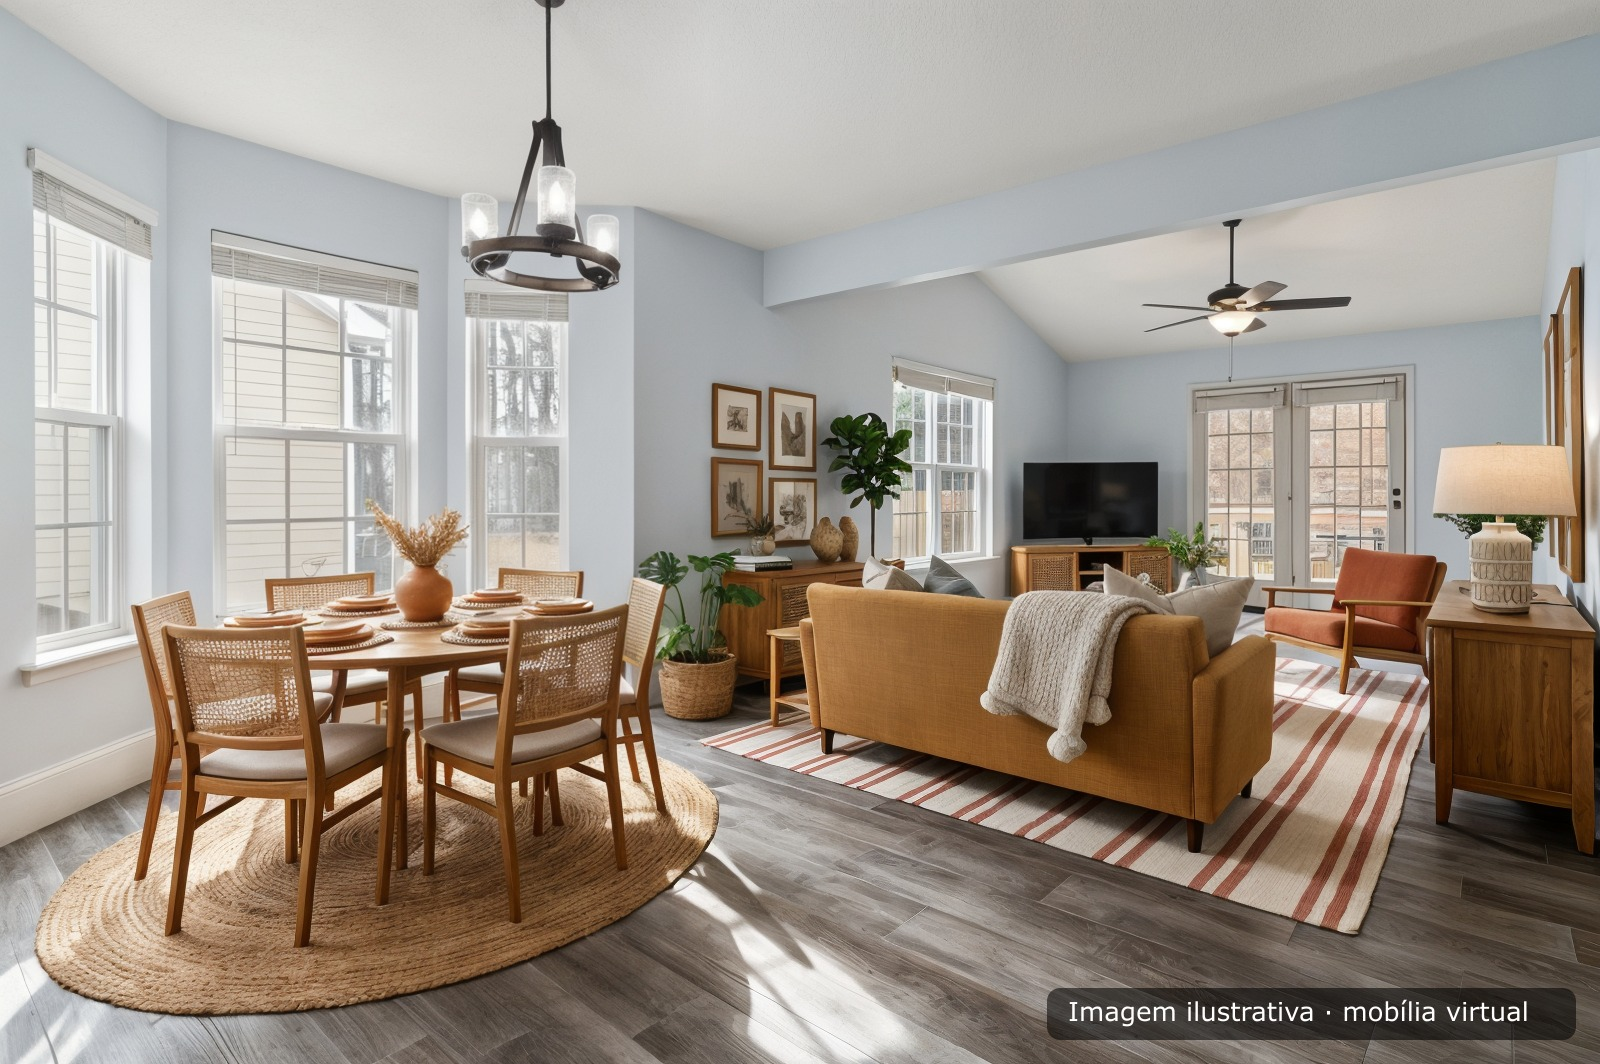
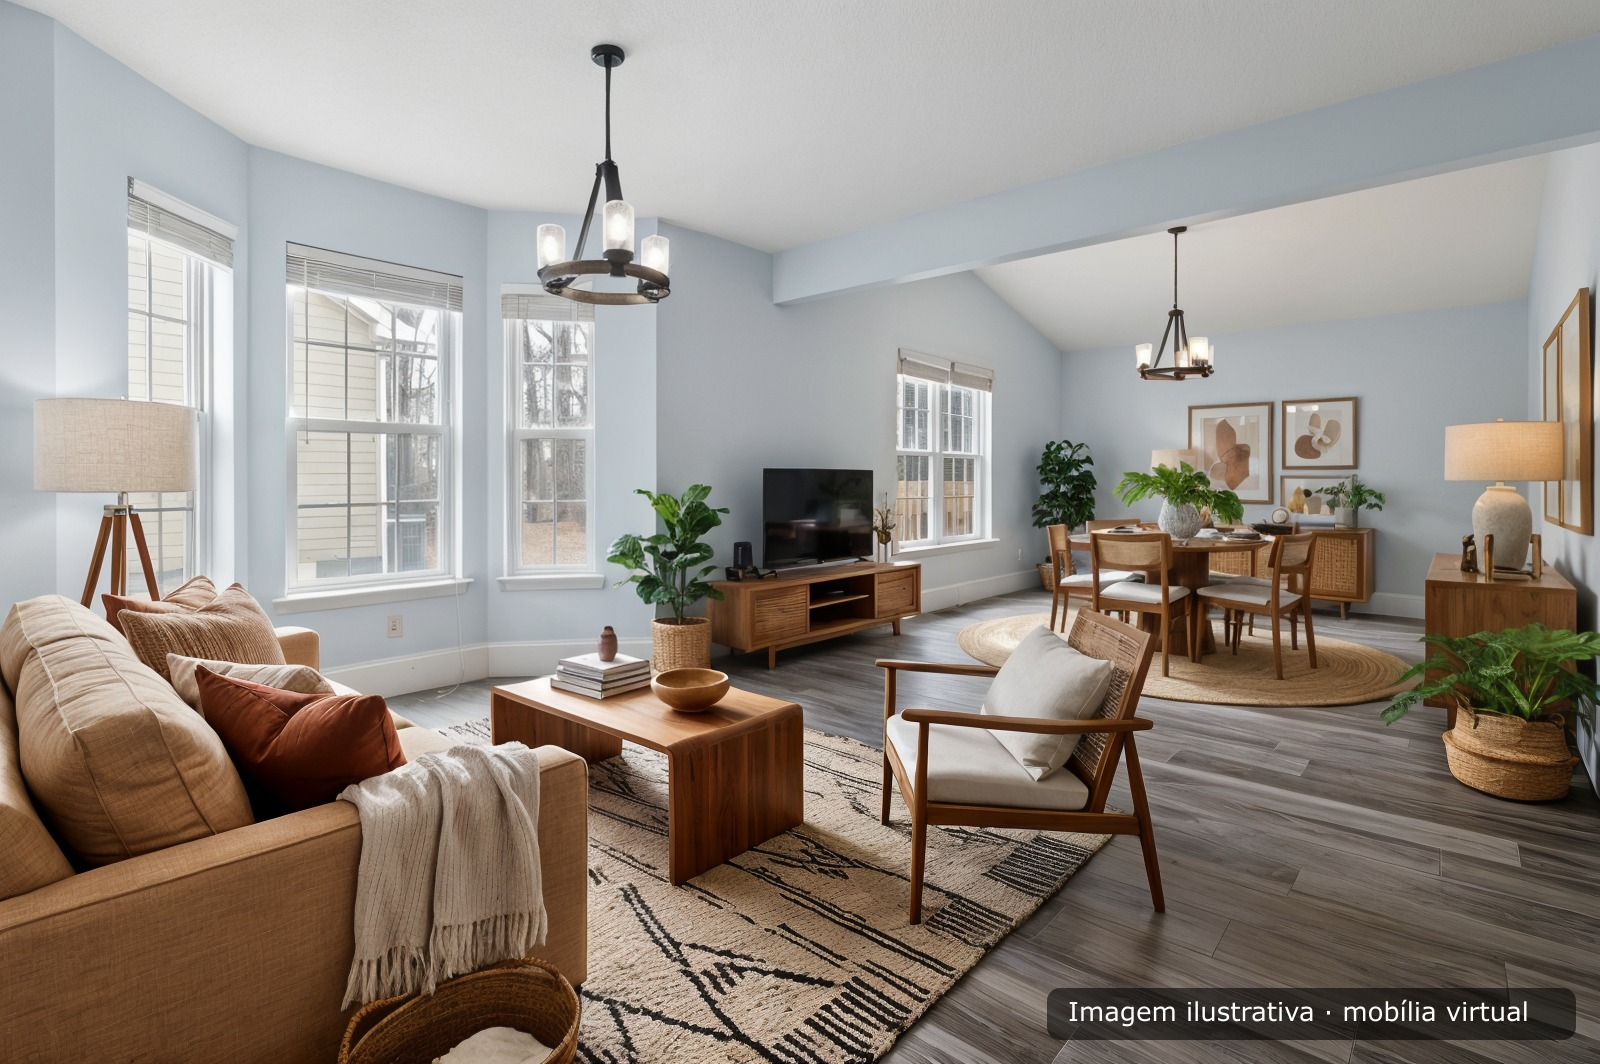
Selo: a copia que volta pra IA cobre so a caixa, com desfoque -- o rodape espelhado sumiu
limparFaixaDoSelo cobria a largura inteira do rodape com o espelho do trecho acima; o modelo preserva o que nao foi pedido pra mudar e devolvia a faixa espelhada na imagem final (piso em espinha virando chevron, visivel no refino e na obra). Agora: geometriaDoSelo() compartilhada entre carimbar e cobrir, o texto do selo vai junto (do job de origem no refinar; da etapa anterior na obra) e o retangulo coberto e' a caixa mais uma folga fina, preenchido com desfoque do trecho logo acima. O selo novo cai exatamente em cima do remendo. Sem texto, cai na faixa inteira como antes.

testar-selo.mjs reescrito: estava quebrado (importava SELOS, que nao existe mais). Agora carimba todo texto do catalogo numa foto real e cobre a caixa em tres resultados reais ja carimbados, medindo: caixa sumiu, texto sumiu, resto intocado, remendo e' desfoque e nao copia. Rodapes antes/depois em docs/testes-reais/selo. Teste de ponta a ponta com IA real (testar-refinar) refeito: 2 creditos, rodape limpo.

diff --git a/web/src/lib/selo.ts b/web/src/lib/selo.ts
@@ -41,6 +41,52 @@ function escaparXml(texto: string): string {
     .replace(/"/g, "&quot;");
 }
 
+type Geometria = {
+  margem: number;
+  fonte: number;
+  padX: number;
+  padY: number;
+  larguraCaixa: number;
+  alturaCaixa: number;
+  /** Canto superior esquerdo da caixa dentro da imagem. */
+  top: number;
+  left: number;
+};
+
+/**
+ * Onde a caixa do selo cai e que tamanho tem, dado o tamanho da imagem e o texto.
+ *
+ * É uma função separada porque DOIS lugares precisam da mesma resposta: quem carimba e
+ * quem, mais tarde, precisa saber exatamente que retângulo cobrir antes de mandar a
+ * imagem de volta pra IA. Se os dois calculassem por conta própria, uma mudança no
+ * tamanho da fonte aqui deixaria um pedaço de selo pra trás lá.
+ */
+export function geometriaDoSelo(largura: number, altura: number, texto: string): Geometria {
+  // Tamanho da fonte proporcional à imagem, com dois limites: nunca tão pequeno que
+  // fique ilegível numa thumb, nunca tão largo que a caixa não caiba na foto.
+  const margem = Math.max(8, Math.round(largura * 0.015));
+  const larguraDisponivel = largura - margem * 2;
+  const fonteProporcional = Math.round(largura * 0.016);
+  const fonteQueCabe = Math.floor(larguraDisponivel / (texto.length * 0.52 + 1.6));
+  const fonte = Math.max(10, Math.min(fonteProporcional, fonteQueCabe));
+
+  const padX = Math.round(fonte * 0.8);
+  const padY = Math.round(fonte * 0.5);
+  const larguraCaixa = Math.min(Math.round(texto.length * fonte * 0.52) + padX * 2, larguraDisponivel);
+  const alturaCaixa = fonte + padY * 2;
+
+  return {
+    margem,
+    fonte,
+    padX,
+    padY,
+    larguraCaixa,
+    alturaCaixa,
+    top: Math.max(0, altura - alturaCaixa - margem),
+    left: Math.max(0, largura - larguraCaixa - margem),
+  };
+}
+
 /**
  * Carimba o selo no canto inferior direito e devolve o JPEG final.
  *
@@ -59,80 +105,106 @@ export async function aplicarSelo(bytes: Buffer, texto: string | null): Promise<
   const altura = meta.height ?? 0;
   if (!largura || !altura) return bytes;
 
-  // Tamanho da fonte proporcional à imagem, com dois limites: nunca tão pequeno que
-  // fique ilegível numa thumb, nunca tão largo que a caixa não caiba na foto.
-  const margem = Math.max(8, Math.round(largura * 0.015));
-  const larguraDisponivel = largura - margem * 2;
-  const fonteProporcional = Math.round(largura * 0.016);
-  const fonteQueCabe = Math.floor(larguraDisponivel / (texto.length * 0.52 + 1.6));
-  const fonte = Math.max(10, Math.min(fonteProporcional, fonteQueCabe));
-
-  const padX = Math.round(fonte * 0.8);
-  const padY = Math.round(fonte * 0.5);
-  const larguraCaixa = Math.min(
-    Math.round(texto.length * fonte * 0.52) + padX * 2,
-    larguraDisponivel
-  );
-  const alturaCaixa = fonte + padY * 2;
+  const g = geometriaDoSelo(largura, altura, texto);
 
   const svg = Buffer.from(
-    `<svg width="${larguraCaixa}" height="${alturaCaixa}" xmlns="http://www.w3.org/2000/svg">` +
-      `<rect x="0" y="0" width="${larguraCaixa}" height="${alturaCaixa}" rx="${Math.round(
-        alturaCaixa * 0.25
+    `<svg width="${g.larguraCaixa}" height="${g.alturaCaixa}" xmlns="http://www.w3.org/2000/svg">` +
+      `<rect x="0" y="0" width="${g.larguraCaixa}" height="${g.alturaCaixa}" rx="${Math.round(
+        g.alturaCaixa * 0.25
       )}" fill="#000000" fill-opacity="0.55"/>` +
-      `<text x="${padX}" y="${Math.round(padY + fonte * 0.78)}" ` +
+      `<text x="${g.padX}" y="${Math.round(g.padY + g.fonte * 0.78)}" ` +
       `font-family="DejaVu Sans, Verdana, Arial, Helvetica, sans-serif" ` +
-      `font-size="${fonte}" fill="#ffffff">${escaparXml(texto)}</text>` +
+      `font-size="${g.fonte}" fill="#ffffff">${escaparXml(texto)}</text>` +
       `</svg>`
   );
 
   return sharp(bytes)
-    .composite([
-      {
-        input: svg,
-        top: Math.max(0, altura - alturaCaixa - margem),
-        left: Math.max(0, largura - larguraCaixa - margem),
-      },
-    ])
+    .composite([{ input: svg, top: g.top, left: g.left }])
     .jpeg({ quality: 92 })
     .toBuffer();
 }
 
+type Retangulo = { left: number; top: number; width: number; height: number };
+
 /**
- * Cobre a faixa onde o selo mora, pra a imagem poder voltar pra IA sem o aviso junto.
+ * Cobre a caixa do selo, pra a imagem poder voltar pra IA sem o aviso junto.
  *
  * Existe por causa da obra no terreno, que é encadeada: a etapa seguinte recebe a imagem
  * da anterior, e a anterior já saiu carimbada. O modelo então REDESENHAVA o "Imagem
  * ilustrativa" e o app carimbava outro por cima -- dois avisos sobrepostos. Pedir no
  * prompt pra não copiar funcionou em metade das rodadas, que é o mesmo que não funcionar.
+ * O refinar tem o mesmo problema pelo mesmo motivo: a entrada dele é um resultado.
  *
  * Não é "tirar o selo": nada é guardado assim. Isto roda sobre a cópia que vai como
  * ENTRADA da próxima etapa, e a saída dela é carimbada de novo, como toda imagem de IA.
  * A única cópia que existe no storage continua tendo o aviso queimado no pixel.
  *
- * A faixa é preenchida com o espelho dos pixels logo acima dela: o modelo recebe
- * continuação plausível da foto em vez de uma tarja, que ele copiaria igual.
+ * Duas decisões que o teste real obrigou:
+ *
+ * 1. Cobrir SÓ a caixa, não a faixa inteira do rodapé. A primeira versão cobria a
+ *    largura toda, e o modelo -- que preserva o que não foi pedido pra mudar -- devolvia
+ *    o rodapé inteiro com a cobertura, visível na imagem final. Com `texto`, a caixa é
+ *    calculada pela MESMA função que carimbou, e o que se cobre é ela e uma folga fina.
+ *    O selo novo cai exatamente em cima desse retângulo, escondendo o remendo.
+ *
+ * 2. Preencher com DESFOQUE do trecho logo acima, não com o espelho dele. O espelho
+ *    tinha a intenção certa (continuação plausível da foto, que o modelo não copia como
+ *    tarja) mas deixava uma simetria que se enxerga -- piso em espinha virando chevron.
+ *    Um borrão da mesma cor e luz é anônimo: o modelo o lê como foreground fora de foco.
+ *
+ * Sem `texto` (quem chama não sabe o que foi carimbado) cai na faixa inteira, como
+ * antes -- pior, mas ainda remove o aviso, que é o que não pode entrar no modelo.
  */
-export async function limparFaixaDoSelo(bytes: Buffer): Promise<Buffer> {
+export async function limparFaixaDoSelo(bytes: Buffer, texto?: string | null): Promise<Buffer> {
   const meta = await sharp(bytes).metadata();
   const largura = meta.width ?? 0;
   const altura = meta.height ?? 0;
   if (!largura || !altura) return bytes;
 
-  // Mesma geometria de `aplicarSelo`, com folga: o tamanho da caixa depende do texto, e
-  // aqui não se sabe qual era. Errar pra mais custa uma tira de céu ou de asfalto.
-  const margem = Math.max(8, Math.round(largura * 0.015));
-  const alturaCaixa = Math.round(largura * 0.016) * 2;
-  const faixa = Math.min(altura - 1, Math.round((alturaCaixa + margem * 2) * 1.4));
-  if (faixa < 4) return bytes;
+  let alvo: Retangulo;
+  if (texto) {
+    const g = geometriaDoSelo(largura, altura, texto);
+    // A folga cobre o anti-aliasing da borda arredondada e o sangramento do JPEG.
+    const folga = Math.max(2, Math.round(g.margem * 0.4));
+    const left = Math.max(0, g.left - folga);
+    const top = Math.max(0, g.top - folga);
+    alvo = {
+      left,
+      top,
+      width: Math.min(largura - left, g.larguraCaixa + folga * 2),
+      height: Math.min(altura - top, g.alturaCaixa + folga * 2),
+    };
+  } else {
+    const margem = Math.max(8, Math.round(largura * 0.015));
+    const alturaCaixa = Math.round(largura * 0.016) * 2;
+    const faixa = Math.min(altura - 1, Math.round((alturaCaixa + margem * 2) * 1.4));
+    alvo = { left: 0, top: altura - faixa, width: largura, height: faixa };
+  }
+  if (alvo.width < 4 || alvo.height < 4) return bytes;
 
-  const espelho = await sharp(bytes)
-    .extract({ left: 0, top: altura - faixa * 2, width: largura, height: faixa })
-    .flip()
+  // A fonte do remendo é o mesmo retângulo, deslocado pra cima até sair de cima da caixa.
+  // Numa imagem baixa demais pra isso, sobe o que der.
+  const fonteTop = Math.max(0, alvo.top - alvo.height);
+
+  // Desfoca com sobra em volta e recorta depois: desfocar o recorte exato deixaria as
+  // bordas do remendo escurecidas/estendidas pelo próprio filtro.
+  const sigma = Math.max(2, Math.round(alvo.height / 3));
+  const sobra = sigma * 2;
+  const areaLeft = Math.max(0, alvo.left - sobra);
+  const areaTop = Math.max(0, fonteTop - sobra);
+  const areaRight = Math.min(largura, alvo.left + alvo.width + sobra);
+  const areaBottom = Math.min(altura, fonteTop + alvo.height + sobra);
+
+  const desfocado = await sharp(bytes)
+    .extract({ left: areaLeft, top: areaTop, width: areaRight - areaLeft, height: areaBottom - areaTop })
+    .blur(sigma)
+    .toBuffer();
+  const remendo = await sharp(desfocado)
+    .extract({ left: alvo.left - areaLeft, top: fonteTop - areaTop, width: alvo.width, height: alvo.height })
     .toBuffer();
 
   return sharp(bytes)
-    .composite([{ input: espelho, top: altura - faixa, left: 0 }])
+    .composite([{ input: remendo, top: alvo.top, left: alvo.left }])
     .jpeg({ quality: 92 })
     .toBuffer();
 }

diff --git a/web/src/app/api/gerar/route.ts b/web/src/app/api/gerar/route.ts
@@ -2,7 +2,7 @@ import { NextRequest, NextResponse } from "next/server";
 import sharp from "sharp";
 import { supabaseServer, BUCKET_RESULTADOS } from "@/lib/supabase-server";
 import { apagarEntradas, caminhoEntrada, caminhoOriginal, guardarEAssinar } from "@/lib/armazenamento";
-import { limparFaixaDoSelo } from "@/lib/selo";
+import { limparFaixaDoSelo, textoDoSelo } from "@/lib/selo";
 import { UPSCALER, corpoRequisicao, despachar } from "@/lib/fal";
 import { ACOES_POR_ID, limparParametros } from "@/lib/acoes";
 import { saldoFal } from "@/lib/custo";
@@ -111,7 +111,7 @@ export async function POST(req: NextRequest) {
   if (baseJobId) {
     const { data: base } = await db
       .from("jobs")
-      .select("id, status, output_path, property_id")
+      .select("id, status, output_path, property_id, tipo, selo")
       .eq("id", baseJobId)
       .eq("user_id", userId)
       .maybeSingle();
@@ -123,7 +123,11 @@ export async function POST(req: NextRequest) {
     // A imagem guardada tem o selo queimado. Se ele entrar no modelo, o modelo o
     // redesenha e o app carimba outro por cima -- aconteceu na obra do terreno. A saída
     // deste job é carimbada normalmente; o que some é só a cópia que entra na IA.
-    bytesBase = await limparFaixaDoSelo(Buffer.from(await arquivo.arrayBuffer()));
+    bytesBase = await limparFaixaDoSelo(
+      Buffer.from(await arquivo.arrayBuffer()),
+      // O texto vai junto pra cobrir a caixa exata, e não o rodapé inteiro.
+      textoDoSelo(base.tipo as string, base.selo as string | null)
+    );
     // O refino herda o imóvel da origem: a v2 da sala continua sendo daquele apartamento.
     if (!imovelIdBruto && base.property_id) imovelIdBruto = base.property_id as string;
   }

diff --git a/web/src/app/api/terreno/ia/route.ts b/web/src/app/api/terreno/ia/route.ts
@@ -5,7 +5,7 @@ import { caminhoEntrada, caminhoOriginal, guardarEAssinar } from "@/lib/armazena
 import { contaDe, creditar, debitar } from "@/lib/cobranca";
 import { corpoRequisicao, despachar } from "@/lib/fal";
 import { ACAO_TERRENO_POR_ID, EXTRAS_CASA, LIMITE_TEXTO_LIVRE, type Referencia } from "@/lib/terreno-ia";
-import { ETAPA_OBRA_POR_ID } from "@/lib/obra-etapas";
+import { ETAPAS_OBRA, ETAPA_OBRA_POR_ID } from "@/lib/obra-etapas";
 import { limparFaixaDoSelo } from "@/lib/selo";
 
 // Terreno com IA: limpar o mato, terraplanar, murar, construir a casa que a pessoa quer,
@@ -87,7 +87,11 @@ export async function POST(req: NextRequest) {
     // assim mesmo deixou uma faixa espelhada no rodapé que o modelo leu como texto e
     // devolveu em rabisco ilegível. Limpeza sem sujeira pra limpar é só estrago.
     const etapaObra = ETAPA_OBRA_POR_ID[idAcao];
-    if (etapaObra && etapaObra.ordem > 1) bytesFoto = await limparFaixaDoSelo(bytesFoto);
+    if (etapaObra && etapaObra.ordem > 1) {
+      // O selo que está na foto é o da etapa ANTERIOR: é a caixa dele que se cobre.
+      const anterior = ETAPAS_OBRA.find((e) => e.ordem === etapaObra.ordem - 1);
+      bytesFoto = await limparFaixaDoSelo(bytesFoto, anterior?.selo ?? null);
+    }
   } catch {
     return NextResponse.json({ error: "Não consegui ler essa imagem." }, { status: 400 });
   }
